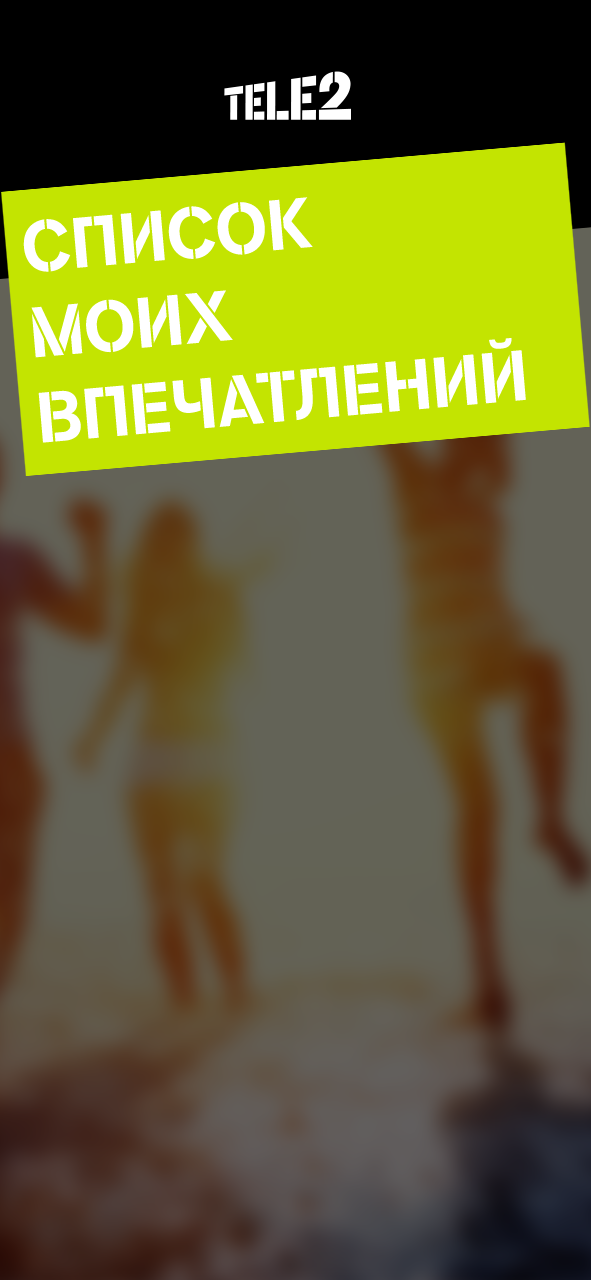
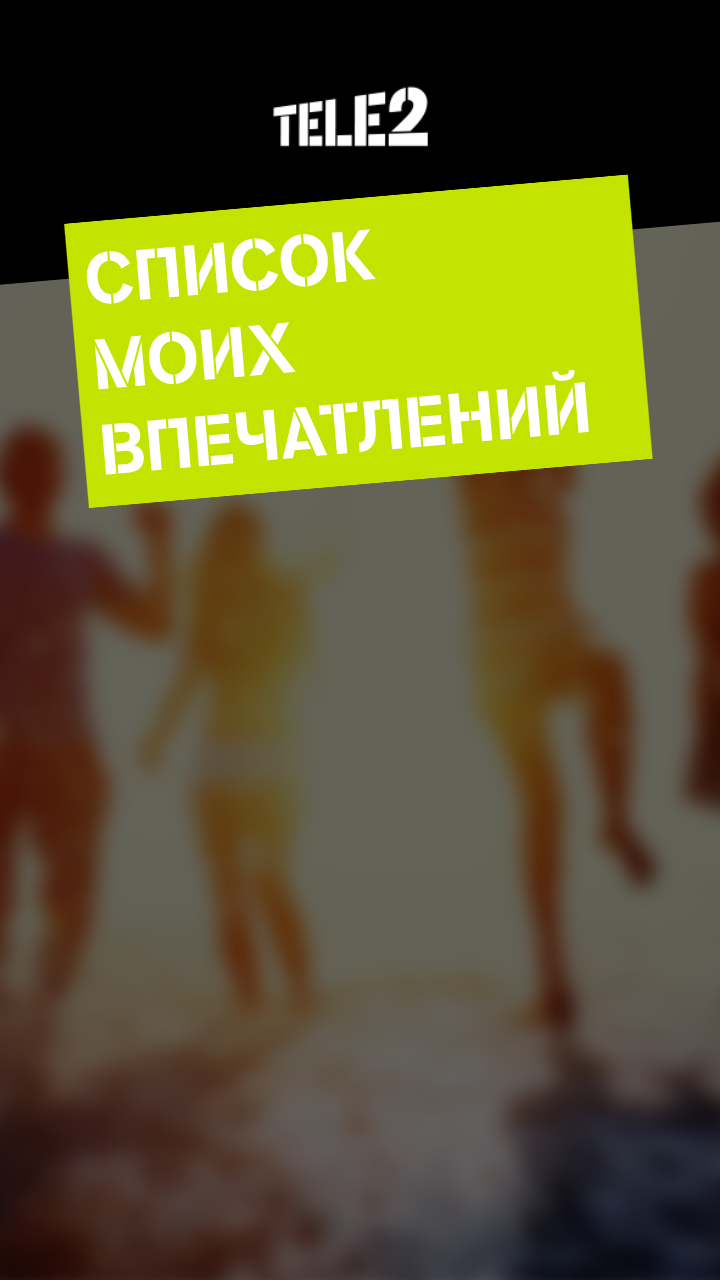
set new images

diff --git a/src/scripts/components/SetCityScreen.ts b/src/scripts/components/SetCityScreen.ts
@@ -30,22 +30,22 @@ export default class SetCityScreen {
     this.createButtons();
     this.createCityText();
     
-    const zone1 = this.createZone(495, Cities.SPB);
-    const zone2 = this.createZone(495 + 69.5, Cities.Vladivostok);
-    const zone3 = this.createZone(495 + 69.5 * 2, Cities.Irkutsk);
-    const zone4 = this.createZone(495 + 69.5 * 3, Cities.Kazan);
-    const zone5 = this.createZone(495 + 69.5 * 4, Cities.Izhevsk);
-    const zone6 = this.createZone(495 + 69.5 * 5, Cities.NN);
-    const zone7 = this.createZone(495 + 69.5 * 6, Cities.Saratov);
-    const zone8 = this.createZone(495 + 69.5 * 7, Cities.Volgograd);
-    const zone9 = this.createZone(495 + 69.5 * 8, Cities.Another);
+    const zone1 = this.createZone(497, Cities.SPB);
+    const zone2 = this.createZone(497 + 69.5, Cities.Vladivostok);
+    const zone3 = this.createZone(497 + 69.5 * 2, Cities.Irkutsk);
+    const zone4 = this.createZone(497 + 69.5 * 3, Cities.Kazan);
+    const zone5 = this.createZone(497 + 69.5 * 4, Cities.Izhevsk);
+    const zone6 = this.createZone(497 + 69.5 * 5, Cities.NN);
+    const zone7 = this.createZone(497 + 69.5 * 6, Cities.Saratov);
+    const zone8 = this.createZone(497 + 69.5 * 7, Cities.Volgograd);
+    const zone9 = this.createZone(497 + 69.5 * 8, Cities.Another);
     this.zones.push(zone1.zone, zone2.zone, zone3.zone, zone4.zone, zone5.zone, zone6.zone, zone7.zone, zone8.zone, zone9.zone);
     this.texts.push(zone1.text, zone2.text, zone3.text, zone4.text, zone5.text, zone6.text, zone7.text, zone8.text, zone9.text);
   }
   
   private createZone(y: number, city: Cities): { zone: Phaser.GameObjects.Zone, text: Phaser.GameObjects.Text } {
     const { centerX } = this.scene.cameras.main;
-    const text = this.scene.add.text(100 + (6 * (city - 1)), y, cityNames[city], {
+    const text = this.scene.add.text(135 + (6 * (city - 1)), y, cityNames[city], {
       fontFamily: Fonts.Tele2DisplaySerif_Regular,
       wordWrap: { width: 450 }, 
       fontSize: '39px',
@@ -94,7 +94,7 @@ export default class SetCityScreen {
 
   private createCityText(): void {
     const { centerY } = this.scene.cameras.main;
-    const x = 45;
+    const x = 108;
     const y = centerY - 115;
     this.textBg = this.scene.add.sprite(x - 12, y - 10, 'black-pixel').setOrigin(0).setAngle(-5).setVisible(false);
     this.question = this.scene.add.sprite(0, 0, 'city-note').setOrigin(0).setVisible(false);

diff --git a/src/scripts/components/TaskScreen.ts b/src/scripts/components/TaskScreen.ts
@@ -20,24 +20,24 @@ export default class TaskScreen {
     if (!dayData) return;
     this.scene.add.sprite(centerX, centerY, dayData.image);
     this.scene.add.sprite(0, 0, currentDay % 2 === 0 ? 'task-green' : 'task-pink').setOrigin(0);
-    this.scene.add.text(25, 220, 'ДЕНЬ ЛЕТА: ' + (44 + currentDay), {
+    this.scene.add.text(60 + 25, 220 + 30, 'ДЕНЬ ЛЕТА: ' + (44 + currentDay), {
       fontFamily: Fonts.Standardstencil,
       fontSize: '60px',
     }).setAngle(-5);
-    this.scene.add.text(30, 300, dayData.title, {
+    this.scene.add.text(60 + 30, 300 + 30, dayData.title, {
       fontFamily: Fonts.Standardstencil,
       fontSize: '35px',
       color: '#000000',
       wordWrap: { width: 520 },
     }).setAngle(-5);
-    const text = this.scene.add.text(50, 520, dayData.text, {
+    const text = this.scene.add.text(60 + 50, 520 + 30, dayData.text, {
       fontFamily: Fonts.Tele2DisplaySerif_Regular,
       fontSize: '25px',
       color: dayData.link ? '#ffffff' : '#000000',
       wordWrap: { width: 520 },
     }).setAngle(-5);
 
-    this.timer = this.scene.add.text(460, 585, '22:30', {
+    this.timer = this.scene.add.text(60 + 460, 585 + 30, '22:30', {
       fontFamily: Fonts.Standardstencil,
       fontSize: '70px',
       color: '#ffffff',

diff --git a/src/scripts/components/ListScreen.ts b/src/scripts/components/ListScreen.ts
@@ -61,12 +61,12 @@ export default class ListScreen {
   private createTask(id: number) {
     const dayData = TaskData[this.scene.state.city][id];
     const padding = 35;
-    const x = 20;
+    const x = 70;
     const y = this.windowHeight + this.scrollHeight + padding;
 
     const text = this.scene.add.text(x + 30, y, dayData.title, {
       fontFamily: Fonts.Tele2DisplaySerif_Regular,
-      wordWrap: { width: 450 }, 
+      wordWrap: { width: 500 }, 
       fontSize: '20px',
     });
     const square = this.scene.add.sprite(x, text.getBounds().centerY, 'green-square');

diff --git a/src/scripts/components/DeferrerScreen.ts b/src/scripts/components/DeferrerScreen.ts
@@ -64,12 +64,12 @@ export default class DeferrerScreen {
   private createTask(id: number) {
     const dayData = TaskData[this.scene.state.city][id];
     const padding = 35;
-    const x = 20;
+    const x = 70;
     const y = this.windowHeight + this.scrollHeight + padding;
 
     const text = this.scene.add.text(x + 30, y, dayData.title, {
       fontFamily: Fonts.Tele2DisplaySerif_Regular,
-      wordWrap: { width: 450 }, 
+      wordWrap: { width: 500 }, 
       fontSize: '20px',
     });
 

diff --git a/src/scripts/index.ts b/src/scripts/index.ts
@@ -20,7 +20,7 @@ window.onload = (): void => {
     let root: HTMLElement = document.querySelector('#root');
     let clientHeight: number = Math.round(document.body.clientHeight);
     let clientWidth: number = Math.round(document.body.clientWidth);
-    let canvasWidth: number = 591;
+    let canvasWidth: number = 720;
     let canvasHeight: number = 1280;
  
     let x: number = canvasWidth / gcd(canvasHeight, canvasWidth);

diff --git a/src/css/style.css b/src/css/style.css
@@ -33,7 +33,7 @@ body {
 }
 body::before {
   content: '';
-  background: #0D0E11;
+  background: #000000;
   background-size: cover;
   position: fixed;
   left: 0;
